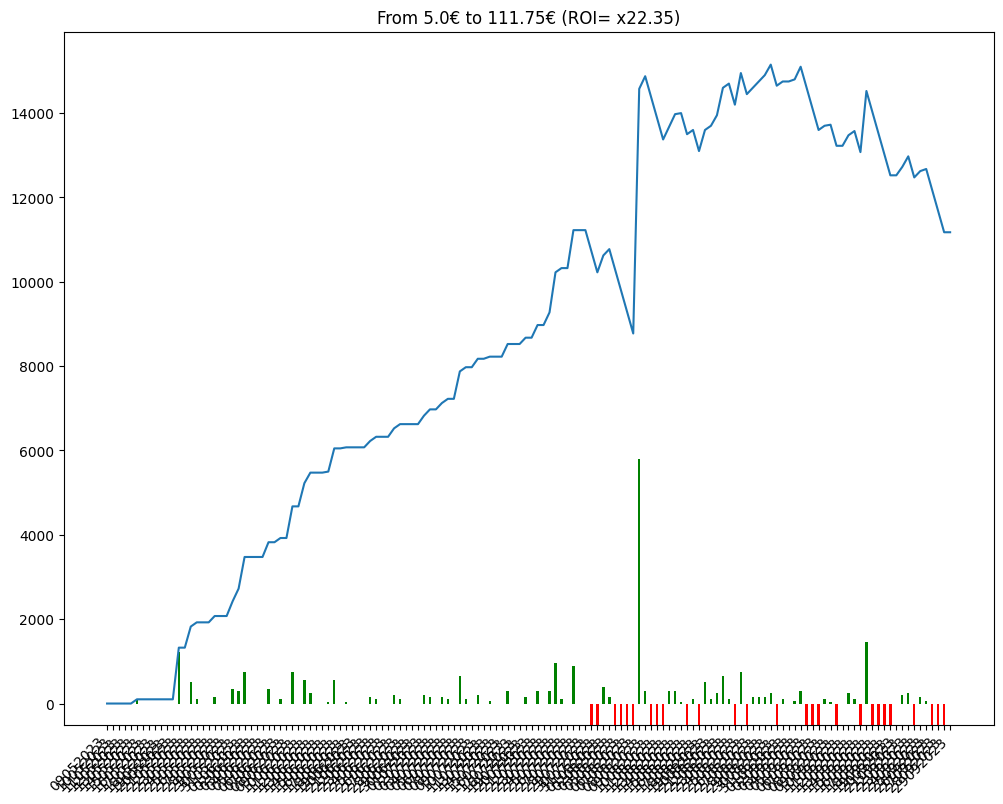
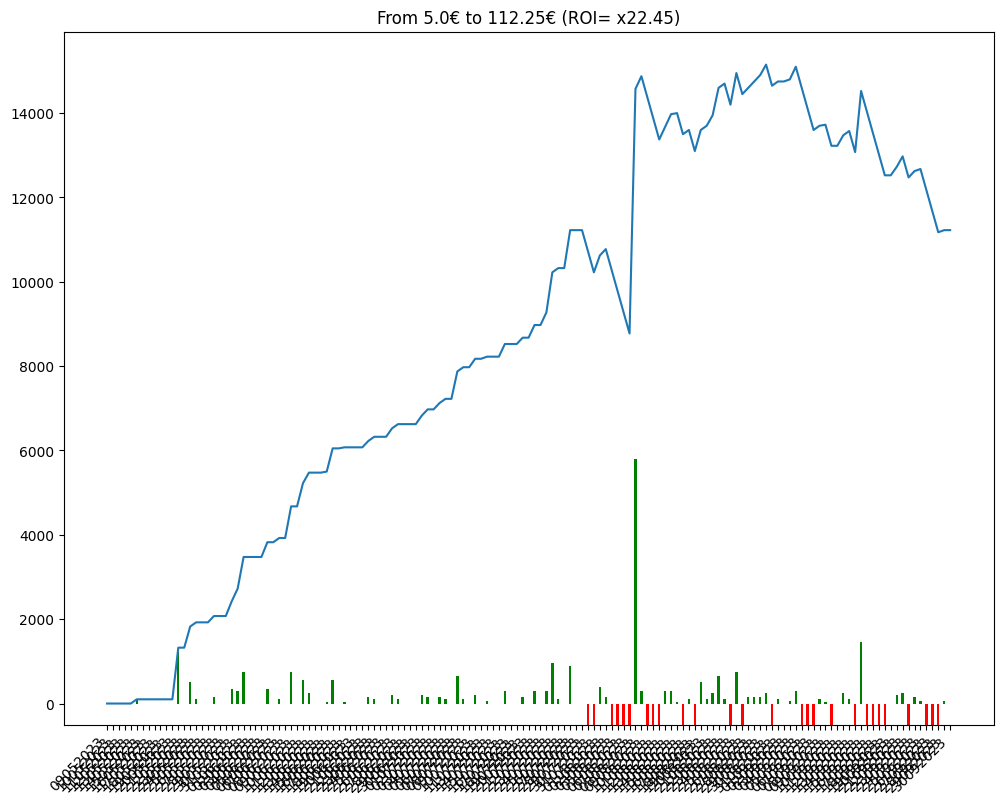
comment from python script

diff --git a/bethistory.html b/bethistory.html
@@ -86,7 +86,8 @@
             En observant la courbe 🤔, on peut avoir une idée visuelle de l'évolution des gains et ainsi évaluer le model utilisé 🧑🏫.
         </p>
         
-        <img src = "/candle.png" alt="candle chart"/><table><tr><td>Chevaux joués</td><td>Gains</td><td>URL Circuits</td></tr><tr><td>7 - VIVE LA REINE</td><td>0</td><td><a href=https://www.pmu.fr/turf/29092023/r4/c1 target="_blank">https://www.pmu.fr/turf/29092023/r4/c1</a></td></tr>
+        <img src = "/candle.png" alt="candle chart"/><table><tr><td>Chevaux joués</td><td>Gains</td><td>URL Circuits</td></tr><tr><td>5 - THAKEERA AL SHAHANIA</td><td>0</td><td><a href=https://www.pmu.fr/turf/30092023/r1/c2 target="_blank">https://www.pmu.fr/turf/30092023/r1/c2</a></td></tr>
+<tr><td>7 - VIVE LA REINE</td><td>+50</td><td><a href=https://www.pmu.fr/turf/29092023/r4/c1 target="_blank">https://www.pmu.fr/turf/29092023/r4/c1</a></td></tr>
 <tr><td>4 - BOLT OF THUNDER</td><td>-500</td><td><a href=https://www.pmu.fr/turf/28092023/r3/c1 target="_blank">https://www.pmu.fr/turf/28092023/r3/c1</a></td></tr>
 <tr><td>2 - ACT OF GLORY</td><td>-500</td><td><a href=https://www.pmu.fr/turf/27092023/r4/c6 target="_blank">https://www.pmu.fr/turf/27092023/r4/c6</a></td></tr>
 <tr><td>2 - MARKER</td><td>-500</td><td><a href=https://www.pmu.fr/turf/26092023/r3/c3 target="_blank">https://www.pmu.fr/turf/26092023/r3/c3</a></td></tr>
